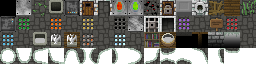
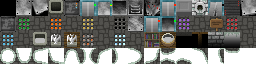
- Updated more tiles for level 0. - Nerfed item degredation - Level sizes now randomly spawn between 20x20 and 40x40 - I may play with this more. - Localised game-engine/PD-Classes library - for ease of use with Android Studio.

Changed region(s): [[0.25, 0.0, 0.6875, 0.5], [0.8125, 0.0, 1.0, 0.25], [0.125, 0.0, 0.1875, 0.25]]

diff --git a/app/src/main/java/com/wafitz/pixelspacebase/levels/Level.java b/app/src/main/java/com/wafitz/pixelspacebase/levels/Level.java
@@ -87,10 +87,27 @@ public abstract class Level implements Bundlable {
 		WATER,
 		GRASS
 	};
-	
-	public static final int WIDTH = 16;
-	public static final int HEIGHT = 48;
-	public static final int LENGTH = WIDTH * HEIGHT;
+
+    // Mix up dungeon creation a little bit - throw the player off
+   /* static int X;
+    static int Y;
+
+    public void rand( int X, int Y ) {
+        int r = Random.Int(20);
+
+        if ((r % 2) == 0) {
+            this.X = 18;
+            this.Y = 52;
+        } else {
+            this.X = 18;
+            this.Y = 52;
+        };
+    }*/
+
+    public static final int WIDTH = Random.Int(20,40);
+    public static final int HEIGHT = Random.Int(20,40);
+
+    public static final int LENGTH = WIDTH * HEIGHT;
 	
 	public static final int[] NEIGHBOURS4 = {-WIDTH, +1, +WIDTH, -1}; 
 	public static final int[] NEIGHBOURS8 = {+1, -1, +WIDTH, -WIDTH, +1+WIDTH, +1-WIDTH, -1+WIDTH, -1-WIDTH};
@@ -153,9 +170,9 @@ public abstract class Level implements Bundlable {
 	public void create() {
 		
 		resizingNeeded = false;
-		
-		map = new int[LENGTH];
-		visited = new boolean[LENGTH];
+
+        map = new int[LENGTH];
+        visited = new boolean[LENGTH];
 		Arrays.fill( visited, false );
 		mapped = new boolean[LENGTH];
 		Arrays.fill( mapped, false );

diff --git a/app/src/main/java/com/wafitz/pixelspacebase/items/wands/Wand.java b/app/src/main/java/com/wafitz/pixelspacebase/items/wands/Wand.java
@@ -48,8 +48,8 @@ import com.watabou.utils.Random;
 public abstract class Wand extends KindOfWeapon {
 
 	private static final int USAGES_TO_KNOW	= 10;
-	
-	public static final String AC_ZAP	= "ZAP";
+
+	private static final String AC_ZAP	= "ZAP";
 	
 	private static final String TXT_WOOD	= "This thin %s wand is warm to the touch. Who knows what it will do when used?";
 	private static final String TXT_DAMAGE	= "When this wand is used as a melee weapon, its average damage is %d points per hit.";
@@ -65,7 +65,7 @@ public abstract class Wand extends KindOfWeapon {
 	public int maxCharges = initialCharges();
 	public int curCharges = maxCharges;
 	
-	protected Charger charger;
+	private Charger charger;
 	
 	private boolean curChargeKnown = false;
 	
@@ -356,7 +356,7 @@ public abstract class Wand extends KindOfWeapon {
 			updateQuickslot();
 		}
 		
-		use();
+		//use();
 		
 		curUser.spendAndNext( TIME_TO_ZAP );
 	}

diff --git a/app/src/main/java/com/wafitz/pixelspacebase/items/Item.java b/app/src/main/java/com/wafitz/pixelspacebase/items/Item.java
@@ -446,9 +446,10 @@ public class Item implements Bundlable {
 	}
 	
 	public int considerState( int price ) {
-		if (cursed && cursedKnown) {
-			price /= 2;
-		}
+		// How is a shopkeeper going to know a weapon is cursed till he wields it?
+		//if (cursed && cursedKnown) {
+		//	price /= 2;
+		//}
 		if (levelKnown) {
 			if (level > 0) {
 				price *= (level + 1);

diff --git a/app/src/main/java/com/wafitz/pixelspacebase/actors/hero/Hero.java b/app/src/main/java/com/wafitz/pixelspacebase/actors/hero/Hero.java
@@ -817,8 +817,9 @@ public class Hero extends Char {
 				if (wep instanceof Wand) {
 					Wand wand = (Wand)wep;
 					if (wand.curCharges >= wand.maxCharges) {
-						
-						wand.use();
+
+						//Quickfix degredation removal
+						//wand.use();
 						
 					} else if (damage > 0) {
 						

diff --git a/app/src/main/java/com/wafitz/pixelspacebase/items/weapon/Weapon.java b/app/src/main/java/com/wafitz/pixelspacebase/items/weapon/Weapon.java
@@ -82,7 +82,7 @@ abstract public class Weapon extends KindOfWeapon {
 			}
 		}
 		
-		use();
+		//use();
 	}
 	
 	private static final String UNFAMILIRIARITY	= "unfamiliarity";

diff --git a/app/src/main/java/com/wafitz/pixelspacebase/items/rings/Ring.java b/app/src/main/java/com/wafitz/pixelspacebase/items/rings/Ring.java
@@ -374,7 +374,7 @@ public class Ring extends EquipableItem {
 				Badges.validateItemLevelAquired( Ring.this );
 			}
 			
-			use();
+			//use();
 			
 			spend( TICK );
 			

diff --git a/app/src/main/java/com/wafitz/pixelspacebase/items/armor/Armor.java b/app/src/main/java/com/wafitz/pixelspacebase/items/armor/Armor.java
@@ -208,7 +208,7 @@ public class Armor extends EquipableItem {
 			}
 		}
 		
-		use();
+		//use();
 		
 		return damage;
 	}
